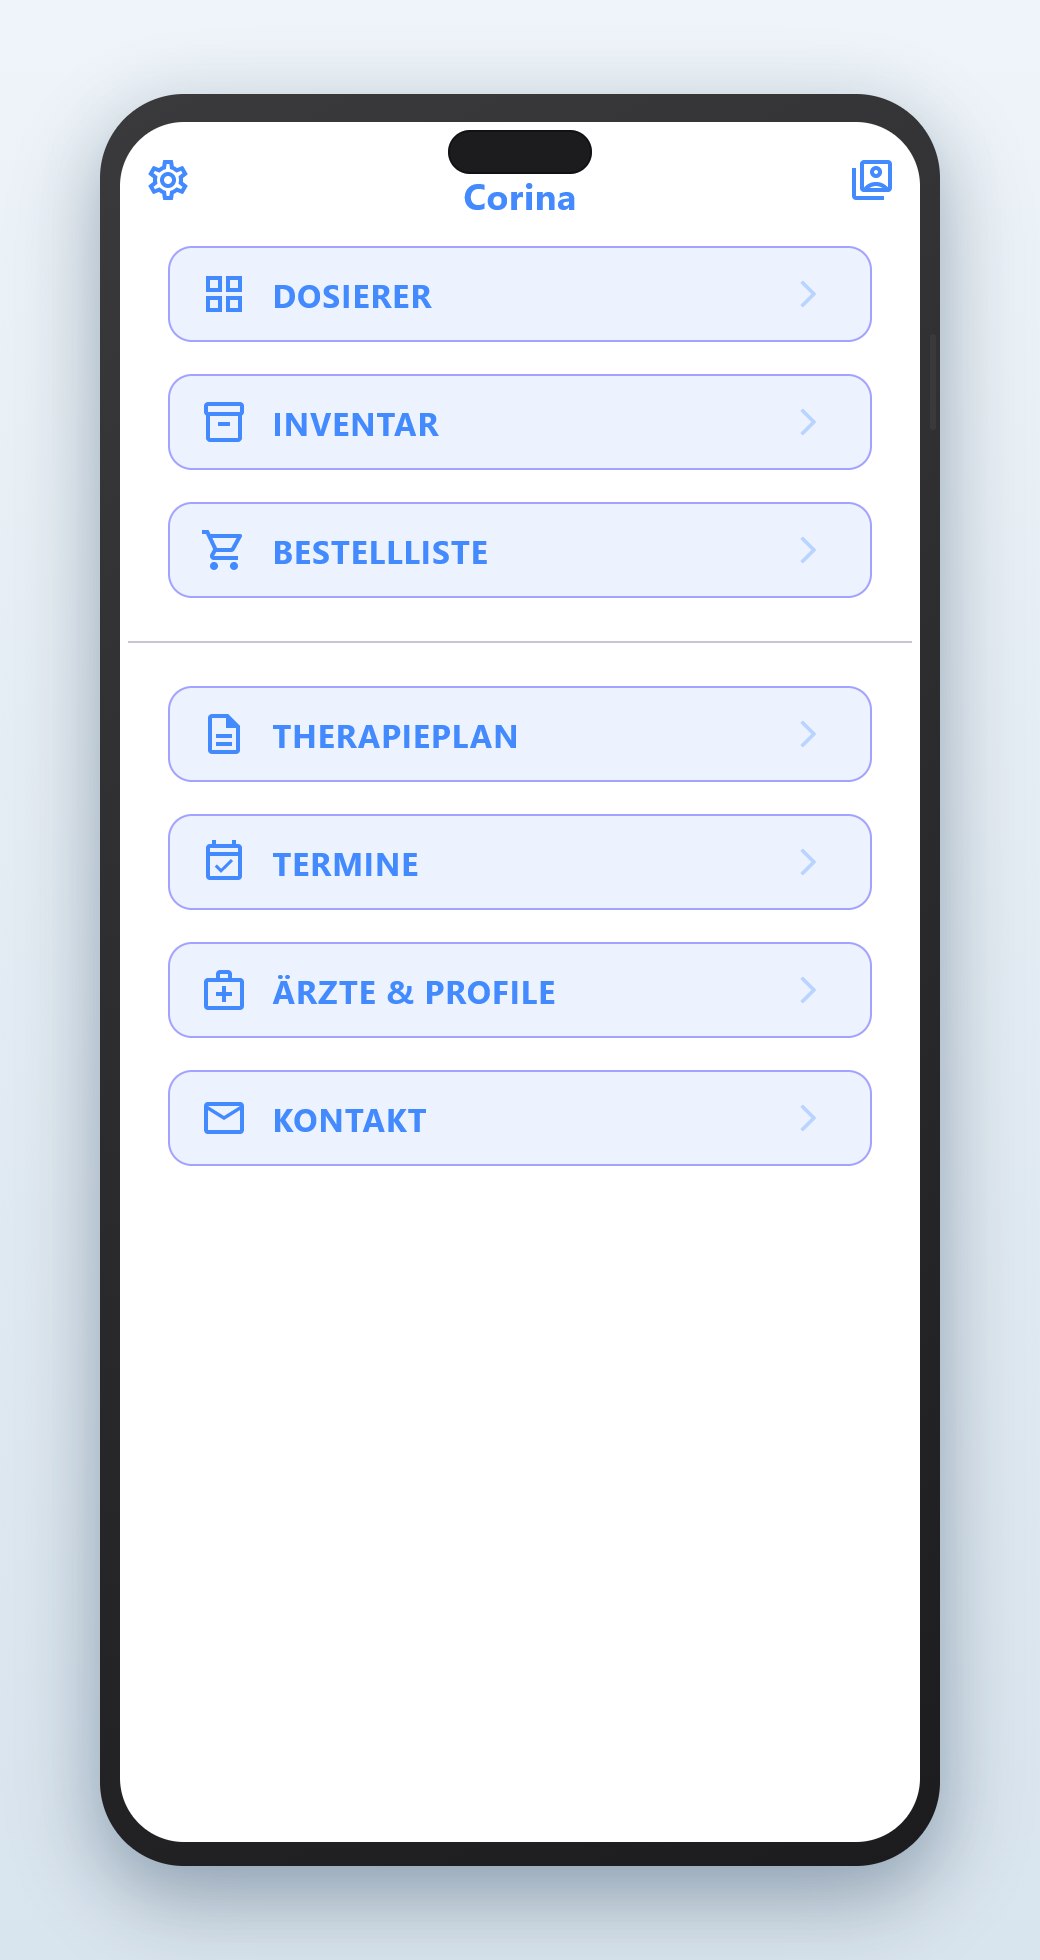
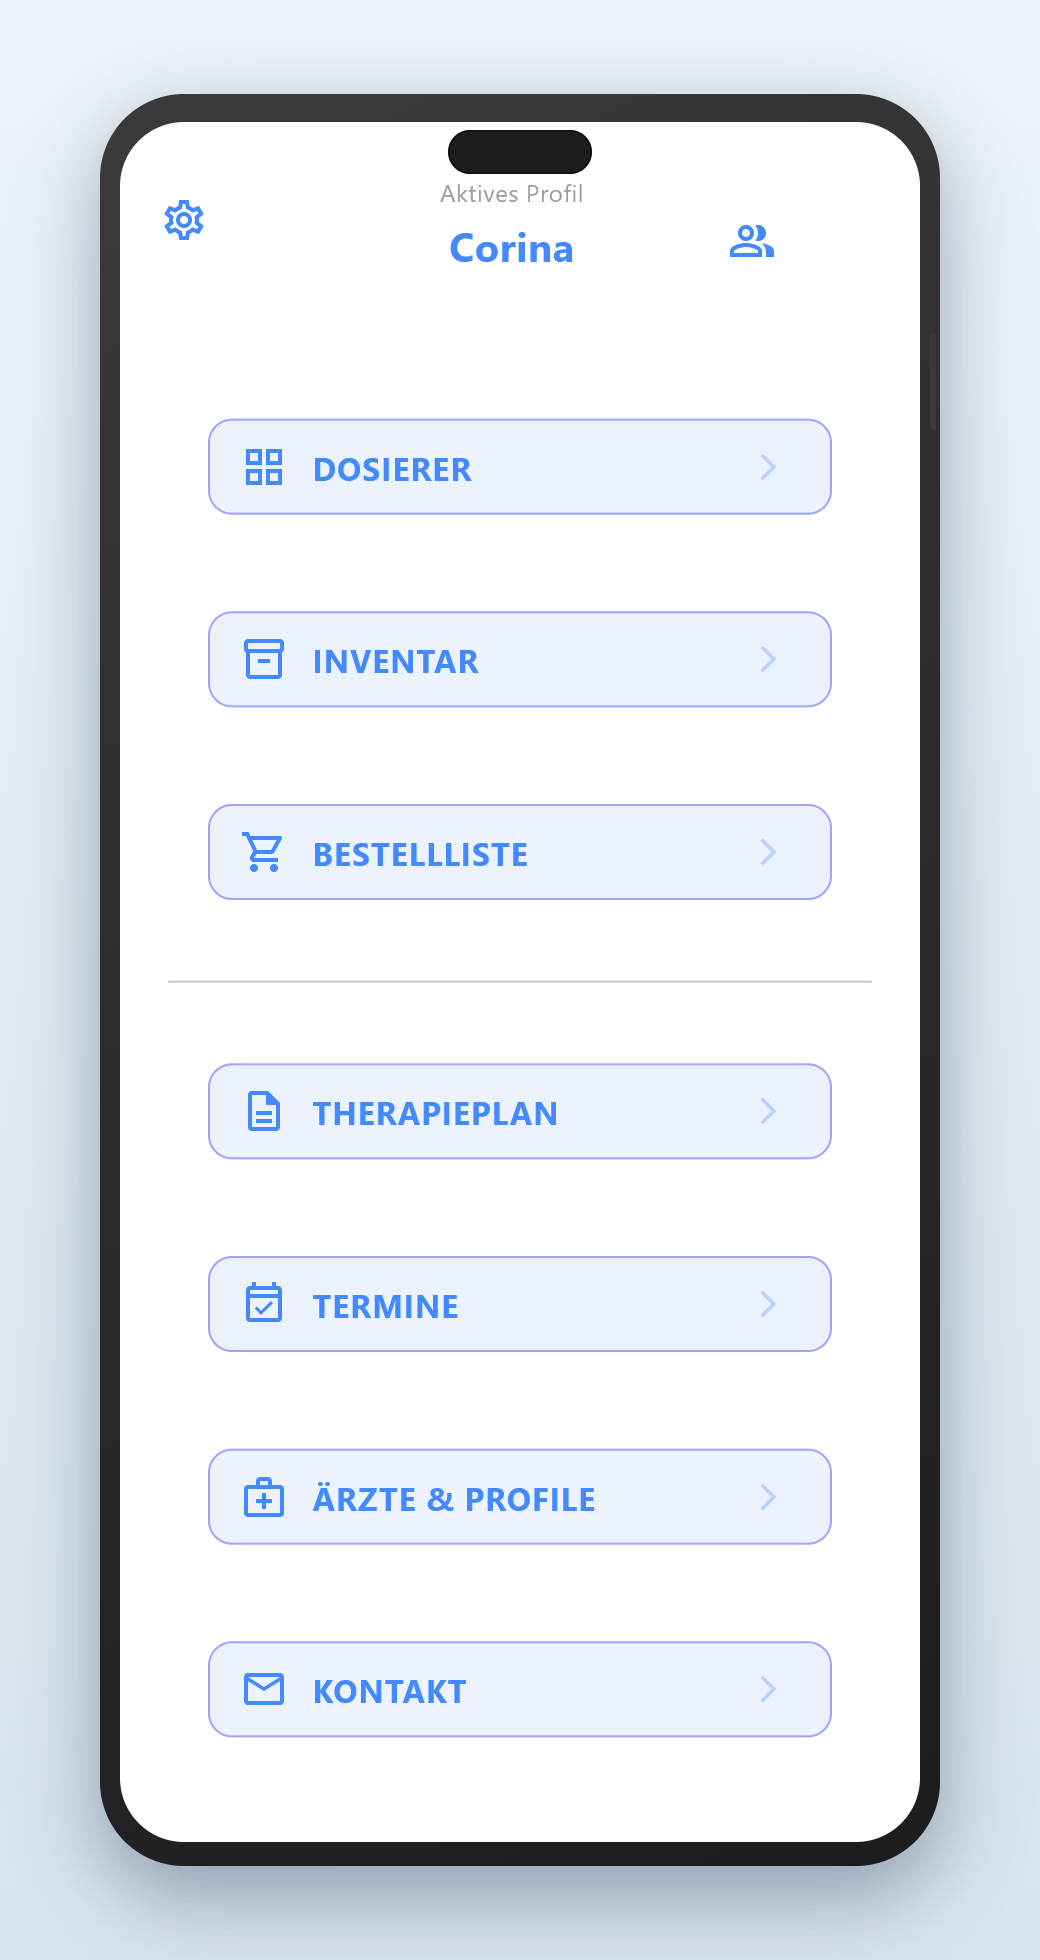
MediPartner-Landing: Galerie auf acht aktuelle App-Screenshots (web_01–web_08) mit Handyrahmen.

diff --git a/projekte/medipartner/index.html b/projekte/medipartner/index.html
@@ -54,47 +54,65 @@
                 <figure>
                     <button type="button" class="screenshot-thumb" data-screenshot-open
                         data-full="screenshots/web_02_dosierer.png"
-                        data-caption="Dosierer"
-                        data-alt="Dosierer in der App">
+                        data-caption="Pillenbox befüllen"
+                        data-alt="Dosierer – Befüllung">
                         <img src="screenshots/web_02_dosierer.png" width="520" height="980" alt="" loading="lazy" decoding="async">
                     </button>
-                    <figcaption>Dosierer</figcaption>
+                    <figcaption>Pillenbox befüllen</figcaption>
                 </figure>
                 <figure>
                     <button type="button" class="screenshot-thumb" data-screenshot-open
-                        data-full="screenshots/web_03_inventar.png"
-                        data-caption="Inventar"
-                        data-alt="Inventar Hausapotheke">
-                        <img src="screenshots/web_03_inventar.png" width="520" height="980" alt="" loading="lazy" decoding="async">
+                        data-full="screenshots/web_03_dosierer_planung.png"
+                        data-caption="Pillenbox planen"
+                        data-alt="Dosierer – Planung">
+                        <img src="screenshots/web_03_dosierer_planung.png" width="520" height="980" alt="" loading="lazy" decoding="async">
                     </button>
-                    <figcaption>Inventar</figcaption>
+                    <figcaption>Pillenbox planen</figcaption>
                 </figure>
                 <figure>
                     <button type="button" class="screenshot-thumb" data-screenshot-open
-                        data-full="screenshots/web_05_bestellliste.png"
+                        data-full="screenshots/web_04_inventar.png"
+                        data-caption="Hausapotheke"
+                        data-alt="Inventar – Liste">
+                        <img src="screenshots/web_04_inventar.png" width="520" height="980" alt="" loading="lazy" decoding="async">
+                    </button>
+                    <figcaption>Hausapotheke</figcaption>
+                </figure>
+                <figure>
+                    <button type="button" class="screenshot-thumb" data-screenshot-open
+                        data-full="screenshots/web_05_inventar_detail.png"
+                        data-caption="Medikament im Detail"
+                        data-alt="Inventar – MHD und Chargen">
+                        <img src="screenshots/web_05_inventar_detail.png" width="520" height="980" alt="" loading="lazy" decoding="async">
+                    </button>
+                    <figcaption>Medikament im Detail</figcaption>
+                </figure>
+                <figure>
+                    <button type="button" class="screenshot-thumb" data-screenshot-open
+                        data-full="screenshots/web_06_bestellliste.png"
                         data-caption="Bestellliste"
                         data-alt="Bestellliste">
-                        <img src="screenshots/web_05_bestellliste.png" width="520" height="980" alt="" loading="lazy" decoding="async">
+                        <img src="screenshots/web_06_bestellliste.png" width="520" height="980" alt="" loading="lazy" decoding="async">
                     </button>
                     <figcaption>Bestellliste</figcaption>
                 </figure>
                 <figure>
                     <button type="button" class="screenshot-thumb" data-screenshot-open
-                        data-full="screenshots/web_06_therapieplan.png"
-                        data-caption="Therapieplan"
+                        data-full="screenshots/web_07_therapieplan.png"
+                        data-caption="Medikationsplan"
                         data-alt="Therapieplan">
-                        <img src="screenshots/web_06_therapieplan.png" width="520" height="980" alt="" loading="lazy" decoding="async">
+                        <img src="screenshots/web_07_therapieplan.png" width="520" height="980" alt="" loading="lazy" decoding="async">
                     </button>
-                    <figcaption>Therapieplan</figcaption>
+                    <figcaption>Medikationsplan</figcaption>
                 </figure>
                 <figure>
                     <button type="button" class="screenshot-thumb" data-screenshot-open
-                        data-full="screenshots/web_07_termine.png"
-                        data-caption="Termine"
-                        data-alt="Arzttermine">
-                        <img src="screenshots/web_07_termine.png" width="520" height="980" alt="" loading="lazy" decoding="async">
+                        data-full="screenshots/web_08_termine.png"
+                        data-caption="Arzttermine"
+                        data-alt="Termine – Kalender">
+                        <img src="screenshots/web_08_termine.png" width="520" height="980" alt="" loading="lazy" decoding="async">
                     </button>
-                    <figcaption>Termine</figcaption>
+                    <figcaption>Arzttermine</figcaption>
                 </figure>
             </div>
 
